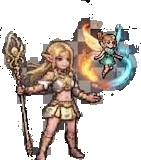
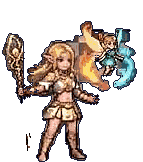
夥伴角色強化（4/12）：精靈使
- 修圖：第 3、4 階段精靈旁的棋盤格挖掉；第 5 階段光芒和棋盤格交錯太密，換新外觀：抹平成半透明的金白柔光
  （pixel_polish 新增 drop_tint、smooth_tint）
- 特效：水青色靈光、環繞小光球；最終階段浮空
- 專屬背景：月夜的精靈泉，極光、古樹剪影、發光蘑菇、螢火往上飄
- 部位動作：頭、上半身呼吸；光球、小精靈、幽靈漂浮；第 3 階段火焰跳動

Claude-Session: https://claude.ai/code/session_016wQJDqNmeMZi3CzSXZ7hYD

diff --git a/web/js/core.js b/web/js/core.js
@@ -175,11 +175,14 @@ const PET_FX = {
   fox_spirit: { from: 2, aura: "255,105,190", orb: "flame", colors: ["#C2369E", "#FF7AD0", "#FFE6F7"], spark: "#FFB8E6", float: 3, sway: 1 },
   succubus: { from: 2, aura: "150,70,230", orb: "bat", colors: ["#1E0B2E", "#6B35B8", "#FF4D7E"], spark: "#C79BFF", float: 2, sway: 2 },
   // 馴獸師：森林的綠光，周圍繞著飄葉；人和野獸站在地上（不浮空）
+  // 精靈使：水青色的靈光，環繞小光球；最終階段浮空
+  spirit: { from: 2, aura: "140,240,215", orb: "wisp", colors: ["#1E6B66", "#5FE0C8", "#F2FFF9"], spark: "#BFFFF0", float: 5, sway: 2 },
   beast_tamer: { from: 2, aura: "140,215,100", orb: "leaf", colors: ["#28501C", "#68AE36", "#D2F59A"], spark: "#CFF59A", sway: 2 },
 };
 const ORB_GRID = {
   flame: ["...1...", "..121..", "..121..", ".12221.", ".12321.", "1223321", "1233321", ".12321.", "..111.."],
   bat: ["1.......1", "11.....11", "111.1.111", "111222111", ".1232321.", "..12221..", "...1.1..."],
+  wisp: ["..111..", ".12221.", "1233321", "1233321", ".12321.", "..121..", "...1..."],
   leaf: ["....111", "...1221", "..12321", ".123221", "1232211", "122211.", "1111...", "1......"],
 };
 
@@ -259,6 +262,30 @@ const PET_SCENE = {
       .map(([x, y], i) => `<i class="star" style="left:${(x / 160) * 100}%;top:${(y / 80) * 100}%;--i:${i}"></i>`).join("");
     return `<svg class="scene-art" viewBox="0 0 160 80" preserveAspectRatio="xMidYMax slice" shape-rendering="crispEdges">${s}</svg>${stars}<i class="mist"></i><i class="mist m2"></i>`;
   },
+  // 精靈使：月夜的精靈泉，極光、古樹、發光的蘑菇，螢火慢慢往上飄
+  spirit: () => {
+    let s = bands(0, ["#0B1430", "#0E1B3B", "#112346", "#142C50", "#17365A", "#1A4062", "#1D4A69", "#20536E", "#235B72", "#266274"], 5);
+    // 極光：兩條波浪帶
+    for (let x = 0; x < 160; x += 2) {
+      const y = 10 + Math.round(4 * Math.sin(x / 14) + 2 * Math.sin(x / 5));
+      s += `<rect x="${x}" y="${y}" width="2" height="5" fill="#5FF2C0" opacity=".28"/><rect x="${x}" y="${y + 5}" width="2" height="4" fill="#8A7CFF" opacity=".18"/>`;
+    }
+    s += pxCircle(132, 12, 6, "#F4F8E6") + pxCircle(135, 10, 5, "#17365A");
+    // 遠方樹林剪影
+    for (let x = 0; x < 160; x += 2) { const h = 10 + Math.round(4 * Math.sin(x / 7) + 3 * Math.sin(x / 2.7)); s += PX(x, 46 - h, 2, h, "#0F2A3A"); }
+    // 地面、泉水
+    s += PX(0, 46, 160, 34, "#173A3A") + PX(0, 46, 160, 2, "#22504A") + PX(0, 62, 160, 18, "#12302F");
+    s += PX(40, 52, 80, 10, "#2A7A86") + PX(34, 54, 92, 6, "#2A7A86") + PX(48, 51, 64, 1, "#5FC9C9") + PX(44, 56, 20, 1, "#7FE6DA") + PX(96, 58, 18, 1, "#7FE6DA");
+    s += PX(76, 54, 8, 1, "#E8FFF6");
+    // 古樹（左右兩邊）
+    s += PX(4, 6, 10, 44, "#0A1E28") + PX(0, 4, 20, 6, "#0A1E28") + PX(12, 14, 10, 3, "#0A1E28") + PX(146, 8, 10, 42, "#0A1E28") + PX(140, 4, 20, 6, "#0A1E28") + PX(136, 16, 10, 3, "#0A1E28");
+    // 發光蘑菇
+    [[22, 52], [28, 55], [130, 53], [138, 56], [112, 64]].forEach(([x, y], i) => {
+      s += PX(x, y, 1, 3, "#CDEFE6") + PX(x - 2, y - 2, 5, 2, i % 2 ? "#7FF7D8" : "#B79CFF") + PX(x - 1, y - 3, 3, 1, i % 2 ? "#C8FFF0" : "#E1D4FF");
+    });
+    const flies = Array.from({ length: 8 }, (_, i) => `<i class="firefly" style="--i:${i}"></i>`).join("");
+    return `<svg class="scene-art" viewBox="0 0 160 80" preserveAspectRatio="xMidYMax slice" shape-rendering="crispEdges">${s}</svg>${flies}`;
+  },
   // 馴獸師：清晨的森林空地，晨光從左邊照進來，松樹林、遠山、樹樁，葉子飄落、鳥飛過
   beast_tamer: () => {
     let s = bands(0, ["#8FC6D6", "#9CCDD6", "#AAD3D3", "#B8D8CE", "#C8DCC4", "#D8DFB8", "#E6E0AC", "#F0DF9E", "#F6DA92", "#F8D486"], 5);
@@ -303,6 +330,15 @@ const PET_FRONT = {
       `<i class="petal front" style="--i:2"></i><i class="petal front" style="--i:5"></i>`;
   },
   succubus: () => `<i class="mist front"></i><i class="mist front m2"></i>`,
+  spirit: () => {
+    let s = "";
+    for (let x = 0; x < 160; x += 3) {
+      const h = 3 + ((x * 7) % 5);
+      s += PX(x, 10 - h, 1, h, "#1F4A44") + PX(x + 1, 10 - h + 1, 1, h - 1, "#2E6A5E");
+      if (x % 21 === 0) s += PX(x, 10 - h - 2, 3, 2, x % 2 ? "#7FF7D8" : "#B79CFF");
+    }
+    return `<svg class="front-art" viewBox="0 0 160 10" preserveAspectRatio="none" shape-rendering="crispEdges">${s}</svg><i class="firefly front" style="--i:3"></i>`;
+  },
   beast_tamer: () => {
     let s = "";
     for (let x = 0; x < 160; x += 2) {
@@ -317,7 +353,7 @@ const petFront = (id) => (PET_FRONT[id] ? `<span class="scene-front" aria-hidden
 
 // 夥伴圖：有拆部位的（rigs.json）用分層組回角色，點擊時頭、翅膀、尾巴、下襬各自動；沒有的用整張圖
 // 圖層順序：翅膀、尾巴、魔力圈在身體後面；上半身、頭在前面。腳留在身體層，不另外動
-const RIG_Z = { wingL: 0, wingR: 0, tail: 0, tailL: 0, tailR: 0, ringL: 0, ringR: 0, torso: 2, head: 3, beast: 2, mane: 2, crystal: 3 };
+const RIG_Z = { wingL: 0, wingR: 0, tail: 0, tailL: 0, tailR: 0, ringL: 0, ringR: 0, torso: 2, head: 3, beast: 2, mane: 2, crystal: 3, wisp: 3, fairy: 3, ghost: 3, flame: 3 };
 function petSprite(id, stage, boxH) {
   const rig = S.rigs?.[id]?.[stage + 1], sp = species(id);
   if (!rig || !sp) return charImg(id, stage, boxH);

diff --git a/web/style.css b/web/style.css
@@ -796,6 +796,8 @@ ol.steps { margin: 0; padding-left: 1.4em; font-size: .9375rem; line-height: 1.7
   .pet-orbit.fast i { animation-duration: 6.5s; animation-delay: calc(-6.5s * var(--k) / var(--n)); }
   .pet-orbit i b { animation: flicker .5s steps(2) infinite; }
   .pet-orbit svg.orb-bat { animation: flap .32s steps(2) infinite; }
+  .pet-orbit svg.orb-wisp { animation: wisp-pulse 1.2s steps(3) infinite alternate; }
+  @keyframes wisp-pulse { to { filter: brightness(1.35) drop-shadow(0 0 3px rgba(190, 255, 240, .9)); } }
   .pet-orbit svg.orb-leaf { animation: leaf-flip 1.6s steps(4) infinite; }
   @keyframes leaf-flip { 25% { scale: .5 1; } 50% { scale: -1 1; } 75% { scale: -.5 1; } }
   @keyframes flap { 50% { transform: scaleY(.55); } }
@@ -858,6 +860,8 @@ ol.steps { margin: 0; padding-left: 1.4em; font-size: .9375rem; line-height: 1.7
 .scene .bird { position: absolute; top: calc(12% + var(--i) * 9%); left: -10%; width: 7px; height: 3px;
   background: linear-gradient(#2E3B36, #2E3B36) 0 0 / 3px 1px no-repeat, linear-gradient(#2E3B36, #2E3B36) 4px 0 / 3px 1px no-repeat,
   linear-gradient(#2E3B36, #2E3B36) 2px 1px / 3px 1px no-repeat; }
+.scene .firefly, .scene-front .firefly { position: absolute; bottom: 12%; left: calc(6% + var(--i) * 12%); width: 3px; height: 3px;
+  background: #E4FFB0; box-shadow: 0 0 5px 1px rgba(200, 255, 150, .8); opacity: 0; }
 .scene .star { position: absolute; width: 3px; height: 3px; background: #FFF4D6; box-shadow: 0 0 4px #FFF4D6; }
 .scene .mist { position: absolute; left: -40%; bottom: 14%; width: 180%; height: 22px; opacity: .55;
   background: repeating-linear-gradient(90deg, rgba(190, 130, 230, .0) 0 18px, rgba(190, 130, 230, .35) 18px 60px, rgba(190, 130, 230, 0) 60px 90px); }
@@ -871,6 +875,9 @@ ol.steps { margin: 0; padding-left: 1.4em; font-size: .9375rem; line-height: 1.7
     50% { transform: translate(-22px, 120px) rotate(180deg); } 90% { opacity: 1; } 100% { opacity: 0; transform: translate(10px, 250px) rotate(360deg); } }
   @keyframes star-blink { 50% { opacity: .25; } }
   @keyframes mist-drift { to { transform: translateX(90px); } }
+  .scene .firefly, .scene-front .firefly { animation: firefly-rise calc(5s + var(--i) * .8s) linear calc(var(--i) * -1.1s) infinite; }
+  @keyframes firefly-rise { 0% { opacity: 0; transform: translate(0, 0); } 15% { opacity: 1; } 50% { transform: translate(8px, -60px); }
+    85% { opacity: .9; } 100% { opacity: 0; transform: translate(-6px, -130px); } }
   .scene .bird { animation: bird-fly calc(11s + var(--i) * 4s) linear calc(var(--i) * -6s) infinite, bird-flap .5s steps(2) infinite; }
   @keyframes bird-fly { 0% { left: -10%; } 100% { left: 110%; transform: translateY(-14px); } }
   @keyframes bird-flap { 50% { background-position: 0 1px, 4px 1px, 2px 0; } }
@@ -889,6 +896,9 @@ ol.steps { margin: 0; padding-left: 1.4em; font-size: .9375rem; line-height: 1.7
   filter: drop-shadow(-2px 0 0 rgba(255, 240, 214, .55)) drop-shadow(0 0 9px rgba(255, 150, 180, .35)) sepia(.06) saturate(1.04); }
 .stage[data-scene="succubus"] .pet img, .stage[data-scene="succubus"] .pet .wavy {
   filter: brightness(.9) drop-shadow(2px 0 0 rgba(225, 60, 95, .7)) drop-shadow(0 0 10px rgba(130, 60, 210, .4)); }
+.stage[data-scene="spirit"] .pet img, .stage[data-scene="spirit"] .pet .wavy {
+  filter: brightness(.95) drop-shadow(-2px 0 0 rgba(220, 255, 245, .55)) drop-shadow(0 0 10px rgba(110, 230, 205, .35)); }
+.stage[data-scene="spirit"] .pet-shadow { background: rgba(5, 20, 25, .55); box-shadow: 0 0 14px 4px rgba(110, 230, 205, .2); }
 .stage[data-scene="beast_tamer"] .pet img, .stage[data-scene="beast_tamer"] .pet .wavy {
   filter: drop-shadow(-2px 0 0 rgba(255, 238, 186, .6)) drop-shadow(0 0 8px rgba(150, 215, 110, .3)) saturate(1.05); }
 .stage[data-scene="beast_tamer"] .pet-shadow { background: rgba(25, 45, 20, .55); }

diff --git a/web/sw.js b/web/sw.js
@@ -1,5 +1,5 @@
 // 只快取 App 外殼，讓主畫面圖示在網路不穩時也打得開；API 一律走網路。
-const CACHE = "ic8-shell-v34";
+const CACHE = "ic8-shell-v35";
 const SHELL = ["/", "/style.css", "/js/core.js", "/js/summary.js", "/js/activity.js", "/js/analysis.js",
   "/js/me.js", "/js/brief.js", "/js/apple.js", "/js/strength.js", "/js/learn.js", "/js/runner.js", "/js/share.js", "/js/main.js", "/manifest.webmanifest", "/characters/manifest.json", "/icons/apple-touch-icon.png"];
 

diff --git a/tools/pixel_polish.py b/tools/pixel_polish.py
@@ -70,6 +70,68 @@ def drop_aura(a, mask, hue=(190, 300), min_sat=12, grow=3, boxes=None):
     return mask & ~aura & ~grey
 
 
+def drop_tint(a, mask, protect=(), max_sat=70, vmin=70, vmax=222, hue=None):
+    """光芒裡帶顏色的棋盤格：保護角色本體的範圍，範圍外「不太鮮豔、不太亮」的像素挖掉。
+    很亮的白（翅膀、光環）、很暗的描邊、鮮豔的寶石保留。hue 可以再限制色相範圍。"""
+    hsv = np.array(Image.fromarray(a[..., :3]).convert("HSV")).astype(int)
+    h = hsv[..., 0] * 360 // 256
+    sel = mask & (hsv[..., 1] <= max_sat) & (hsv[..., 2] >= vmin) & (hsv[..., 2] <= vmax)
+    if hue:
+        lo, hi = hue
+        sel &= ((h >= lo) | (h < hi)) if lo > hi else ((h >= lo) & (h < hi))
+    for x0, y0, x1, y1 in protect:
+        sel[y0:y1, x0:x1] = False
+    return mask & ~sel
+
+
+def smooth_tint(a, mask, protect=(), max_sat=90, vmin=70, vmax=228, hue=None, sigma=5.0, lift=1.0, boxes=None,
+                glow=None, mix=0.0, alpha=255):
+    """光芒和棋盤格交錯得太密、挖不乾淨時：不挖，改成把那一片「抹平」成柔和的光（棋盤格紋路消失，形狀保留）。"""
+    hsv = np.array(Image.fromarray(a[..., :3]).convert("HSV")).astype(int)
+    h = hsv[..., 0] * 360 // 256
+    sel = mask & (hsv[..., 1] <= max_sat) & (hsv[..., 2] >= vmin) & (hsv[..., 2] <= vmax)
+    if hue:
+        lo, hi = hue
+        sel &= ((h >= lo) | (h < hi)) if lo > hi else ((h >= lo) & (h < hi))
+    if boxes:
+        keep = np.zeros_like(sel)
+        for x0, y0, x1, y1 in boxes:
+            keep[y0:y1, x0:x1] = True
+        sel &= keep
+    for x0, y0, x1, y1 in protect:
+        sel[y0:y1, x0:x1] = False
+    w = ndimage.gaussian_filter(sel.astype(float), sigma)
+    out = a.copy()
+    for c in range(3):
+        sm = ndimage.gaussian_filter(a[..., c].astype(float) * sel, sigma) / np.maximum(w, 1e-6)
+        if glow:                                   # 再往發光的顏色靠（例如金白色）
+            sm = sm * (1 - mix) + glow[c] * mix
+        out[..., c] = np.where(sel, np.clip(sm * lift, 0, 255), a[..., c])
+    return out, sel, alpha
+
+
+def drop_outside(a, mask, dark=80, grow=1, max_sat=255, protect=(), boxes=None):
+    """從圖片外面往內淹：碰到深色描邊就停。淹得到、又不鮮豔的像素就是背景殘渣（光芒裡的棋盤格），挖掉。
+    角色有完整描邊的部位淹不進去，所以不會被挖。"""
+    hsv = np.array(Image.fromarray(a[..., :3]).convert("HSV")).astype(int)
+    wall = mask & (hsv[..., 2] < dark)
+    wall = ndimage.binary_dilation(wall, CROSS, iterations=grow) & mask
+    open_ = ~wall
+    for x0, y0, x1, y1 in protect:
+        open_[y0:y1, x0:x1] = False
+    lab, _ = ndimage.label(open_, structure=CROSS)
+    H, W = mask.shape
+    seeds = set(np.unique(lab[~mask])) | set(np.unique(np.r_[lab[0], lab[-1], lab[:, 0], lab[:, -1]]))
+    seeds.discard(0)
+    reach = np.isin(lab, list(seeds)) & mask & (hsv[..., 1] <= max_sat)
+    if boxes:
+        keep = np.zeros_like(reach)
+        for x0, y0, x1, y1 in boxes:
+            keep[y0:y1, x0:x1] = True
+        reach &= keep
+    return mask & ~reach
+
+
 def shift_hue(img, lo, hi, by, darken=1.0, min_sat=40):
     """把某段色相（0–360 度）整段轉到別的顏色，例如粉紅轉成紫紅；金髮、膚色不在範圍內就不動。"""
     hsv = np.array(img.convert("HSV")).astype(int)
@@ -81,12 +143,22 @@ def shift_hue(img, lo, hi, by, darken=1.0, min_sat=40):
     return Image.fromarray(hsv.astype(np.uint8), "HSV").convert("RGB")
 
 
-def polish(path, colors=96, sat=1.12, contrast=1.06, holes=False, hue=None, debris=False, aura=None, min_bit=8):
+def polish(path, colors=96, sat=1.12, contrast=1.06, holes=False, hue=None, debris=False, aura=None, min_bit=8, tint=None, smooth=None, outside=None):
     im = Image.open(path).convert("RGBA")
     a = np.array(im)
     mask = a[..., 3] > 0
+    soft = []                                      # 抹平後要半透明的區域
+    if smooth:
+        for sm in (smooth if isinstance(smooth, list) else [smooth]):
+            a, sel, al = smooth_tint(a, mask, **sm)
+            if al < 255:
+                soft.append((sel, al))
     if aura:
         mask = drop_aura(a, mask, **aura)
+    if tint:
+        mask = drop_tint(a, mask, **tint)
+    if outside:
+        mask = drop_outside(a, mask, **outside)
     mask = peel_grey(a, mask)
     if holes:
         mask = drop_grey_holes(a, mask)
@@ -113,7 +185,11 @@ def polish(path, colors=96, sat=1.12, contrast=1.06, holes=False, hue=None, debr
     fill = arr[mask]
     arr[~mask] = np.median(fill, axis=0).astype(np.uint8) if len(fill) else 0
     q = np.array(Image.fromarray(arr).quantize(colors=colors, method=Image.Quantize.FASTOCTREE, dither=Image.Dither.NONE).convert("RGB"))
-    out = np.dstack([q, np.where(mask, 255, 0).astype(np.uint8)])
+    alpha = np.where(mask, 255, 0).astype(np.uint8)
+    for sel, al in soft:
+        alpha[sel & mask] = al
+        body &= ~sel                               # 半透明的光不加墨線
+    out = np.dstack([q, alpha])
     H, W = mask.shape
     pad = np.zeros((H + 2, W + 2, 4), np.uint8)
     pad[1:-1, 1:-1] = out
@@ -126,6 +202,13 @@ def polish(path, colors=96, sat=1.12, contrast=1.06, holes=False, hue=None, debr
 
 # 每個種族可以個別調整：sat 彩度、contrast 對比、colors 顏色數
 TUNE = {
+    # 精靈使：第 3、4 階段的精靈旁邊夾著棋盤格（保護人和精靈，範圍外的暗灰格挖掉）；
+    # 第 5 階段的光芒和棋盤格交錯太密 → 換新外觀：抹平成半透明的金白柔光，翅膀和光環的亮線保留
+    "spirit": {"sat": 1.15, "contrast": 1.08, "debris": True, "min_bit": 24, "holes": True, "stages": {
+        3: {"tint": {"max_sat": 80, "vmin": 40, "vmax": 215, "protect": [(38, 35, 86, 162), (0, 28, 22, 105), (98, 28, 128, 74)]}},
+        4: {"tint": {"hue": (0, 70), "max_sat": 95, "vmin": 40, "vmax": 205, "protect": [(52, 28, 122, 155), (30, 18, 62, 150)]}},
+        5: {"holes": False, "smooth": {"protect": [(86, 44, 104, 70), (66, 72, 120, 160)], "max_sat": 95, "vmax": 224, "sigma": 3,
+                                       "glow": (255, 236, 190), "mix": 0.55, "alpha": 120}}}},
     "fox_spirit": {"sat": 1.25, "contrast": 1.08},   # 和服的紅、紫、金更華麗
     # 魅魔：跟九尾狐的粉紅分開 → 粉紅轉成深紫紅、整體暗一點；翅膀和魔力圈裡夾著背景棋盤格
     "succubus": {"sat": 1.2, "contrast": 1.12, "holes": True, "hue": [(296, 8, -30, 0.84)]},

diff --git a/tools/rig_split.py b/tools/rig_split.py
@@ -49,6 +49,14 @@ RIGS: dict[str, dict[int, list]] = {
             ("torso", [56, 57, 125, 110], [92, 110], "breath")],
         5: [("head", [82, 26, 122, 62], [102, 62], "tilt"), ("beast", [165, 85, 203, 132], [170, 108], "nod"),
             ("tail", [20, 102, 42, 132], [42, 126], "wag"), ("torso", [85, 62, 132, 105], [106, 105], "breath")]},
+    # 精靈使：人動頭和上半身；身邊的光球、小精靈、幽靈漂浮；第 3 階段的火焰跳動。第 5 階段柔光是半透明，只動臉和上半身
+    "spirit": {
+        1: [("head", [8, 3, 44, 40], [26, 40], "tilt"), ("wisp", [49, 5, 73, 39], [61, 22], "bob"), ("torso", [3, 40, 46, 78], [24, 78], "breath")],
+        2: [("head", [22, 22, 60, 58], [40, 58], "tilt"), ("fairy", [70, 2, 116, 56], [92, 30], "bob"), ("torso", [16, 58, 62, 98], [38, 98], "breath")],
+        3: [("head", [42, 35, 78, 72], [60, 72], "tilt"), ("fairy", [100, 24, 140, 92], [118, 60], "bob"),
+            ("flame", [78, 18, 100, 92], [90, 90], "flicker"), ("torso", [38, 72, 85, 112], [62, 112], "breath")],
+        4: [("head", [65, 30, 105, 72], [85, 72], "tilt"), ("ghost", [118, 16, 169, 112], [140, 100], "bob"), ("torso", [55, 72, 118, 112], [86, 112], "breath")],
+        5: [("head", [84, 44, 106, 72], [95, 72], "tilt"), ("torso", [66, 72, 120, 112], [93, 112], "breath")]},
     "fox_spirit": {
         1: [("head", [36, 0, 77, 42], [52, 40], "tilt"), ("tail", [4, 18, 36, 66], [36, 52], "wag")],
         2: [("head", [48, 8, 82, 46], [64, 46], "tilt"), ("tailL", [6, 38, 50, 112], [50, 70], "fanL"), ("torso", [46, 46, 85, 95], [64, 95], "breath")],
